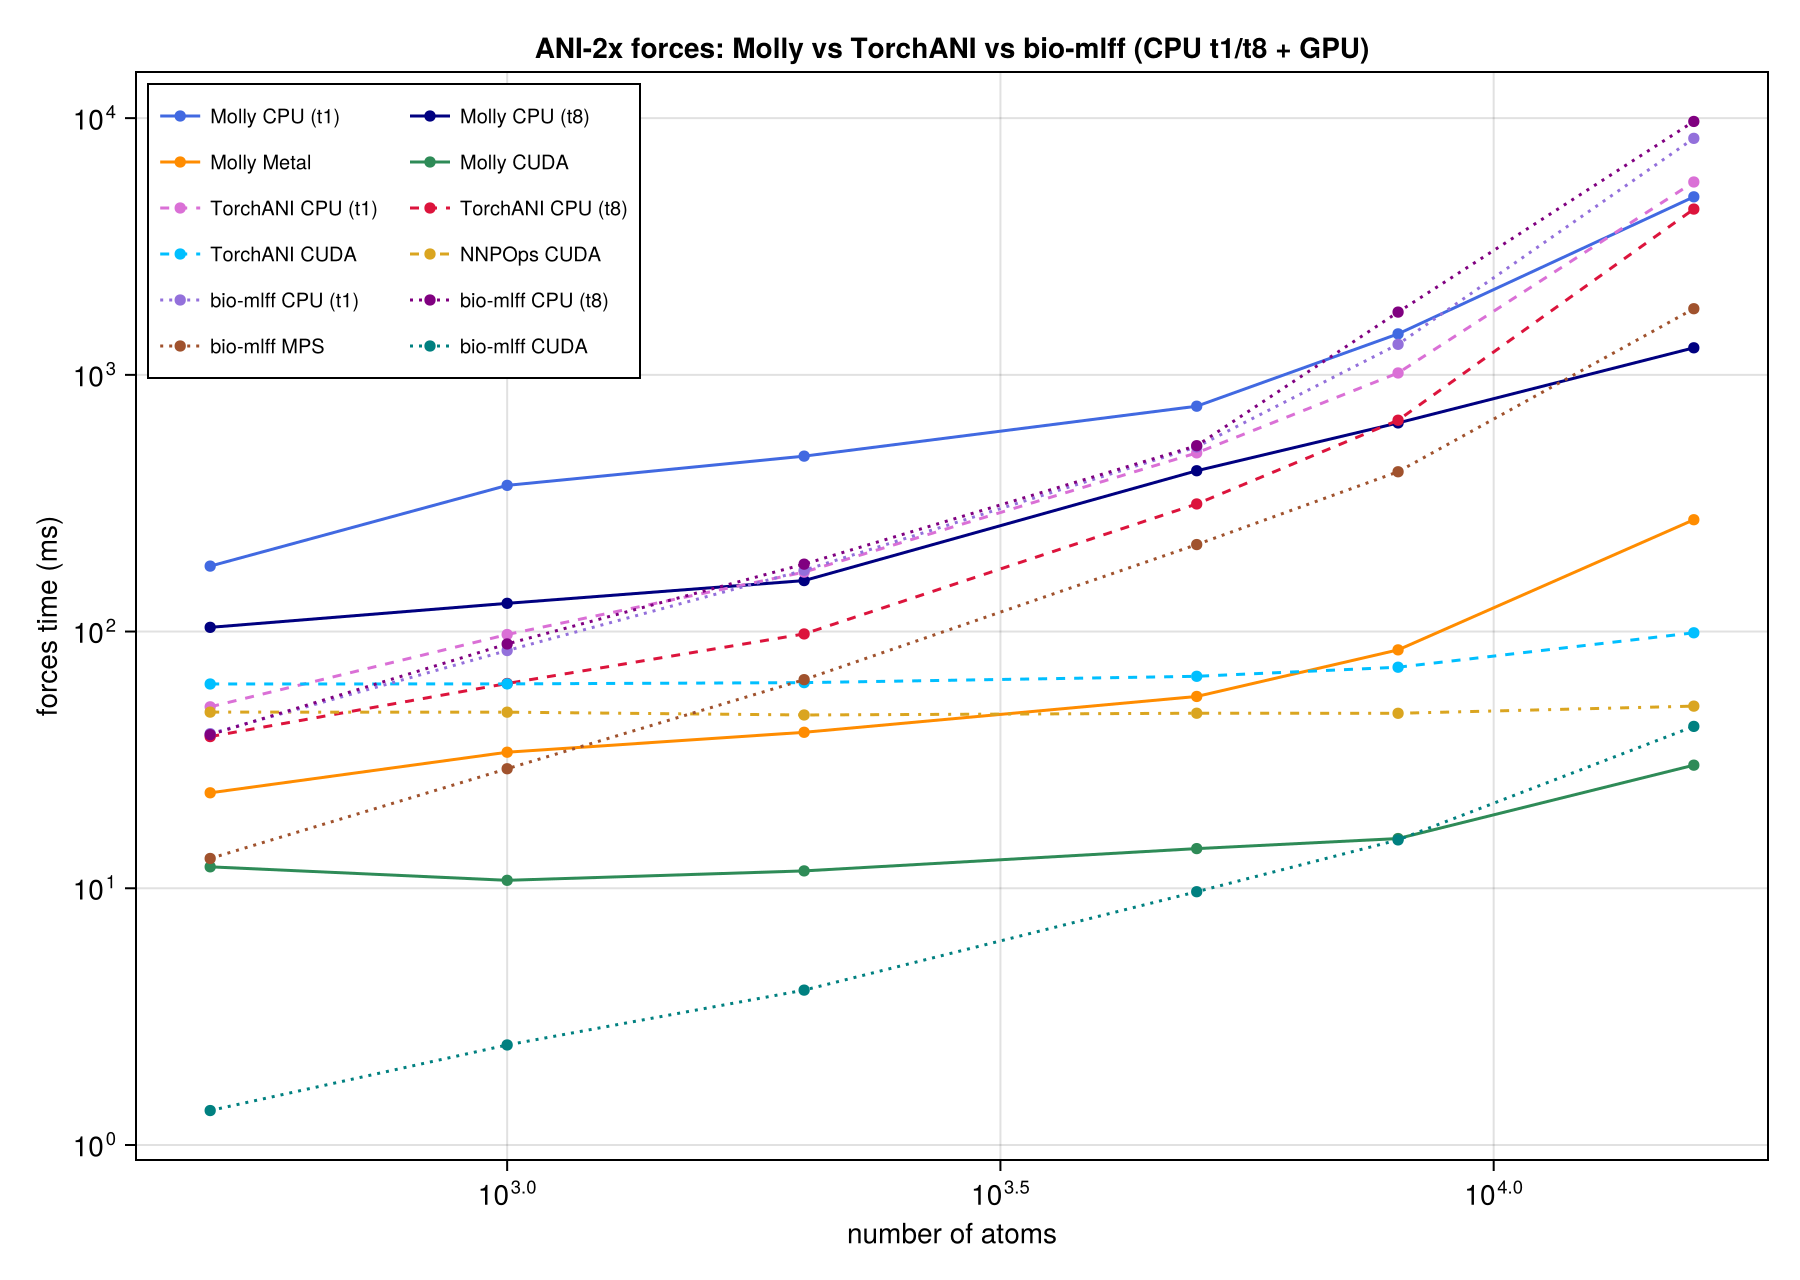
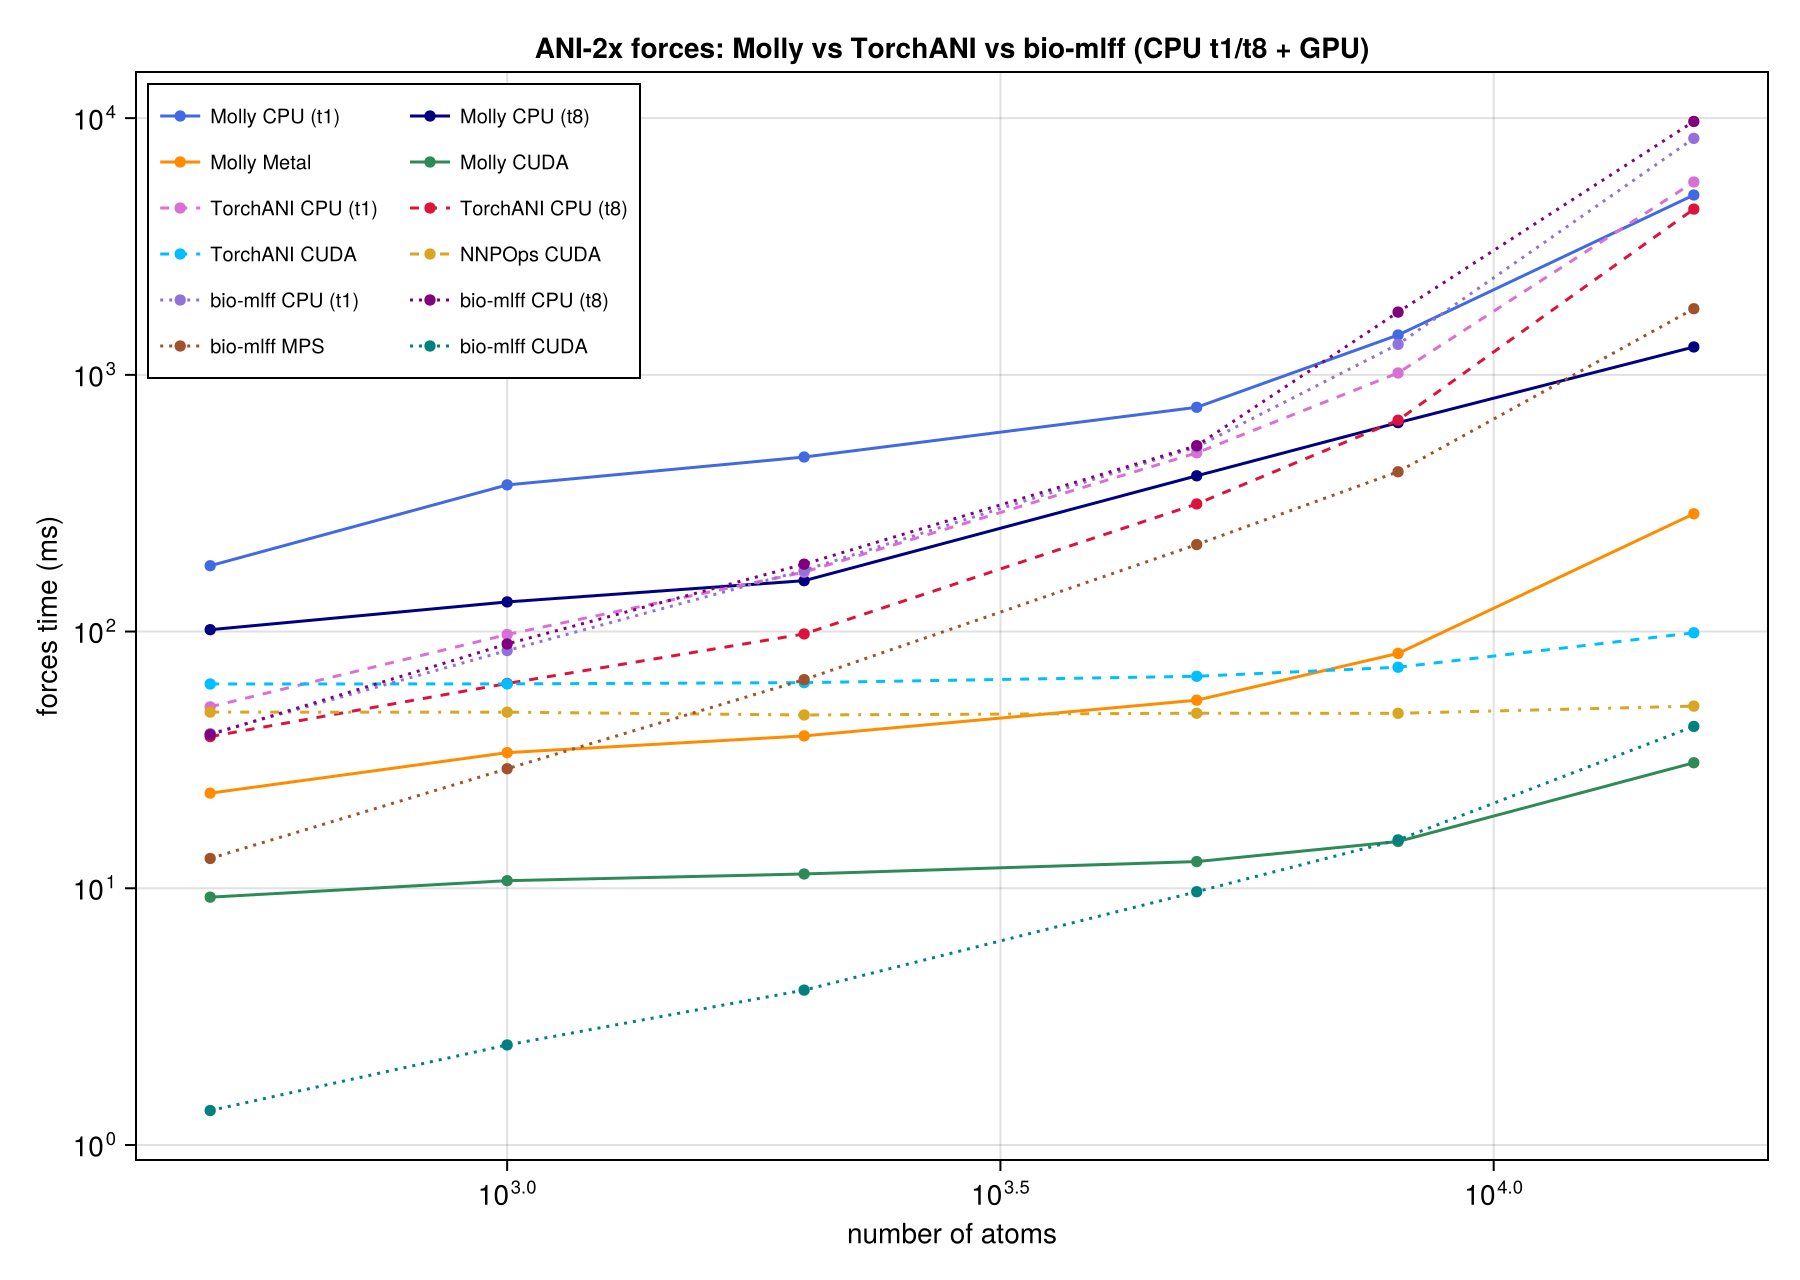
bench: refresh ANI benchmarks with the reviewed implementation
Re-ran energy + forces on CPU (t1/t8), Apple Metal and CUDA (RTX 5080) with the
post-review code, and regenerated the figures. Timings reproduce the earlier
numbers within run-to-run variance (the review changed correctness/units, not the
perf kernels). Molly CPU is now plotted at t1 and t8 across the full 500..15,954
range on both the energy and forces figures. Tables and the reproduce note updated.

diff --git a/benchmark/ani_benchmarks.md b/benchmark/ani_benchmarks.md
@@ -2,9 +2,16 @@
 
 Consolidated performance and correctness results for Molly's native ANI-2x implementation.
 
+> **Re-run with the reviewed implementation (2026-08).** The energy, forces and figures below were
+> regenerated after the PR review (kJ/mol units, one-indexed `ensemble_idx`, Float32 AEV on both
+> CPU and GPU, GPU energy dispatch). The review changed correctness/units, not the perf-critical
+> kernels (write-reduced AEV, on-device CSR, backward-angular), so the timings reproduce the earlier
+> numbers within run-to-run variance — confirming no regression. Molly CPU is now shown at t1 and t8
+> across the full 500→15,954 range on both the energy and forces figures.
+
 **Setup:** Apple Silicon (12 cores: 8P + 4E), Julia 1.12, ANI-2x, Float32 AEVs. Systems are
 slices of `data/6mrr_equil.pdb` with a `DistanceNeighborFinder` (cutoff `max(r_c_R,r_c_A)+1 = 6.1 Å`),
-single ensemble member (`ensemble_idx=0`) unless noted. "CPU" numbers use `-t8` unless a thread
+single ensemble member (`ensemble_idx=1`) unless noted. "CPU" numbers use `-t8` unless a thread
 count is given. The **NVIDIA CUDA section** is measured on a separate RTX 5080 host (its CPU column
 is that host, not Apple Silicon) — see that section.
 
@@ -57,7 +64,7 @@ near-linearly to 8 threads: 1.9×/3.5×/5.3× at 2/4/8 threads.)
 
 | N atoms | 500  | 1000 | 2000 | 5000  | 8000  | 15,954 |
 |---------|------|------|------|-------|-------|--------|
-| CPU (t8)| 18.3 | 32.3 | 48.5 | 113.1 | 196.9 | 395.8  | ms
+| CPU (t8)| 16.8 | 34.8 | 52.4 | 118.3 | 212.0 | 454.1  | ms
 
 ### Full 8-member ensemble
 
@@ -84,12 +91,12 @@ a single member: one AEV forward/backward, NN VJP ×8).
 
 | N atoms | CPU analytic (t8) | Metal | Metal speedup |
 |---------|-------------------|-------|---------------|
-| 500     | 103.9 ms | 23.5 ms  | **4.4×**   |
-| 1000    | 128.8 ms | 33.9 ms  | **3.8×**   |
-| 2000    | 158.0 ms | 40.5 ms  | **3.9×**   |
-| 5000    | 423.2 ms | 55.9 ms  | **7.6×**   |
-| 8000    | 649.8 ms | 84.9 ms  | **7.7×**   |
-| **15,954 (full 6mrr)** | 1275 ms | **273 ms** | **4.7×** |
+| 500     | 101.7 ms | 22.6 ms  | **4.5×**   |
+| 1000    | 130.5 ms | 33.0 ms  | **4.0×**   |
+| 2000    | 157.8 ms | 39.2 ms  | **4.0×**   |
+| 5000    | 404.4 ms | 54.0 ms  | **7.5×**   |
+| 8000    | 651.4 ms | 82.9 ms  | **7.9×**   |
+| **15,954 (full 6mrr)** | 1284 ms | **291 ms** | **4.4×** |
 
 With the write-reduced backward angular kernel, Metal now beats the threaded CPU on forces at
 **every** size (4.4× at 500 atoms, up to 7.7× at 8000, 4.7× at the full protein). Metal forces for
@@ -134,12 +141,12 @@ Metal times the on-device path (`compute_ani_energy_ka`: GPU AEV + on-device NN)
 
 | N atoms      | CPU (t8) | Metal   | Metal speedup |
 |--------------|----------|---------|---------------|
-| 500          | 18.3 ms  | 11.6 ms | **1.6×**      |
-| 1000         | 32.3 ms  | 15.9 ms | **2.0×**      |
-| 2000         | 48.5 ms  | 19.2 ms | **2.5×**      |
-| 5000         | 113.1 ms | 27.4 ms | **4.1×**      |
-| 8000         | 196.9 ms | 41.9 ms | **4.7×**      |
-| **15,954 (full 6mrr)** | 395.8 ms | **118.6 ms** | **3.3×** |
+| 500          | 16.8 ms  | 11.8 ms | **1.4×**      |
+| 1000         | 34.8 ms  | 15.6 ms | **2.2×**      |
+| 2000         | 52.4 ms  | 18.0 ms | **2.9×**      |
+| 5000         | 118.3 ms | 25.4 ms | **4.7×**      |
+| 8000         | 212.0 ms | 38.0 ms | **5.6×**      |
+| **15,954 (full 6mrr)** | 454.1 ms | **125.6 ms** | **3.6×** |
 
 With the write-reduced AEV default and on-device CSR, Metal now beats the threaded CPU at **every**
 size (1.6× at 500 atoms, up to 4.7× at 8000) rather than only crossing over at ~4000. At the full
@@ -173,23 +180,23 @@ Energy (single member, ms; **lower is better**):
 
 | N atoms | CPU (t8) | **Molly CUDA** | TorchANI CUDA | NNPOps CUDA | bio-mlff CUDA |
 |---------|----------|------------|---------------|-------------|---------------|
-| 500     | 39.5   | **4.0**  | 32.5 | 25.4 | 0.5 |
-| 1000    | 100.5  | **4.1**  | 32.4 | 25.2 | 0.9 |
-| 2000    | 151.7  | **4.4**  | 32.6 | 24.7 | 1.4 |
-| 5000    | 388.3  | **5.2**  | 35.1 | 25.8 | 3.5 |
-| 8000    | 688.5  | **6.2**  | 38.8 | 26.2 | 5.9 |
-| **15,954** | 1492.1 | **12.0** | 58.2 | 27.2 | 24.4 |
+| 500     | 112.6  | **3.1**  | 32.5 | 25.4 | 0.5 |
+| 1000    | 214.4  | **3.6**  | 32.4 | 25.2 | 0.9 |
+| 2000    | 326.3  | **3.9**  | 32.6 | 24.7 | 1.4 |
+| 5000    | 621.9  | **4.5**  | 35.1 | 25.8 | 3.5 |
+| 8000    | 994.0  | **6.2**  | 38.8 | 26.2 | 5.9 |
+| **15,954** | 2056.7 | **13.3** | 58.2 | 27.2 | 24.4 |
 
 Forces (single member, ms):
 
 | N atoms | CPU (t8) | **Molly CUDA** | TorchANI CUDA | NNPOps CUDA | bio-mlff CUDA |
 |---------|----------|------------|---------------|-------------|---------------|
-| 500     | 285.2  | **10.1** | 62.5 | 48.6 | 1.4 |
-| 1000    | 337.7  | **10.8** | 62.5 | 48.5 | 2.5 |
-| 2000    | 410.8  | **12.1** | 63.3 | 47.3 | 4.0 |
-| 5000    | 1304.7 | **14.1** | 67.0 | 48.1 | 9.7 |
-| 8000    | 1951.0 | **15.5** | 72.6 | 48.0 | 15.4 |
-| **15,954** | 3905.3 | **31.3** | 98.9 | 51.2 | 42.7 |
+| 500     | 450.6  | **9.2**  | 62.5 | 48.6 | 1.4 |
+| 1000    | 582.9  | **10.7** | 62.5 | 48.5 | 2.5 |
+| 2000    | 696.2  | **11.4** | 63.3 | 47.3 | 4.0 |
+| 5000    | 1693.5 | **12.7** | 67.0 | 48.1 | 9.7 |
+| 8000    | 2388.8 | **15.2** | 72.6 | 48.0 | 15.4 |
+| **15,954** | 5387.9 | **30.8** | 98.9 | 51.2 | 42.7 |
 
 **NNPOps baseline (optimized-CUDA AEV).** The [openmm/NNPOps](https://github.com/openmm/NNPOps)
 library ([J. Phys. Chem. B 2023](https://doi.org/10.1021/acs.jpcb.3c06662)) provides hand-written
@@ -243,17 +250,17 @@ Energy (ms):
 
 | N atoms | Molly t1 | Molly t8 | Molly Metal | **Molly CUDA** | TorchANI t1 | TorchANI t8 | TorchANI CUDA | bio-mlff t1 | bio-mlff t8 | bio-mlff MPS | bio-mlff CUDA |
 |---------|----------|----------|-------------|------------|-------------|-------------|---------------|-------------|-------------|--------------|---------------|
-| 1000    | 101.5 | 32.3  | 15.9  | **4.1**  | 50.1  | 32.7  | 32.4 | 45.7  | 45.9  | 12.0  | 0.9  |
-| 8000    | 403.5 | 196.9 | 41.9  | **6.2**  | 799.4 | 524.1 | 38.8 | 636.5 | 618.6 | 263.3 | 5.9  |
-| 15,954  | 1550  | 395.8 | 118.6 | **12.0** | 3629  | 2753  | 58.2 | 3663  | 4011  | 1205  | 24.4 |
+| 1000    | 109.6 | 34.8  | 15.6  | **3.6**  | 50.1  | 32.7  | 32.4 | 45.7  | 45.9  | 12.0  | 0.9  |
+| 8000    | 491.0 | 212.0 | 38.0  | **6.2**  | 799.4 | 524.1 | 38.8 | 636.5 | 618.6 | 263.3 | 5.9  |
+| 15,954  | 1806  | 454.1 | 125.6 | **13.3** | 3629  | 2753  | 58.2 | 3663  | 4011  | 1205  | 24.4 |
 
 Forces (ms):
 
 | N atoms | Molly t1 | Molly t8 | Molly Metal | **Molly CUDA** | TorchANI t1 | TorchANI t8 | TorchANI CUDA | bio-mlff t1 | bio-mlff t8 | bio-mlff MPS | bio-mlff CUDA |
 |---------|----------|----------|-------------|------------|-------------|-------------|---------------|-------------|-------------|--------------|---------------|
-| 1000    | 371.1 | 128.8 | 33.9  | **10.8** | 97.4   | 62.8  | 62.5 | 84.4  | 89.5  | 29.2   | 2.4  |
-| 8000    | 1444  | 649.8 | 84.9  | **15.5** | 1017   | 665.8 | 72.6 | 1315  | 1756  | 419.3  | 15.4 |
-| 15,954  | 4937  | 1275  | 272.7 | **31.3** | 5641   | 4424  | 98.9 | 8343  | 9709  | 1810   | 42.7 |
+| 1000    | 372.7 | 130.5 | 33.0  | **10.7** | 97.4   | 62.8  | 62.5 | 84.4  | 89.5  | 29.2   | 2.4  |
+| 8000    | 1430  | 651.4 | 82.9  | **15.2** | 1017   | 665.8 | 72.6 | 1315  | 1756  | 419.3  | 15.4 |
+| 15,954  | 5019  | 1284  | 290.6 | **30.8** | 5641   | 4424  | 98.9 | 8343  | 9709  | 1810   | 42.7 |
 
 **Threading** (the interesting part): Molly scales well with threads (energy ~3.5× t1→t8, forces
 ~3.8× at 16k); TorchANI scales modestly (~1.3× energy, ~1.3× forces); bio-mlff (JAX/XLA on CPU) is
